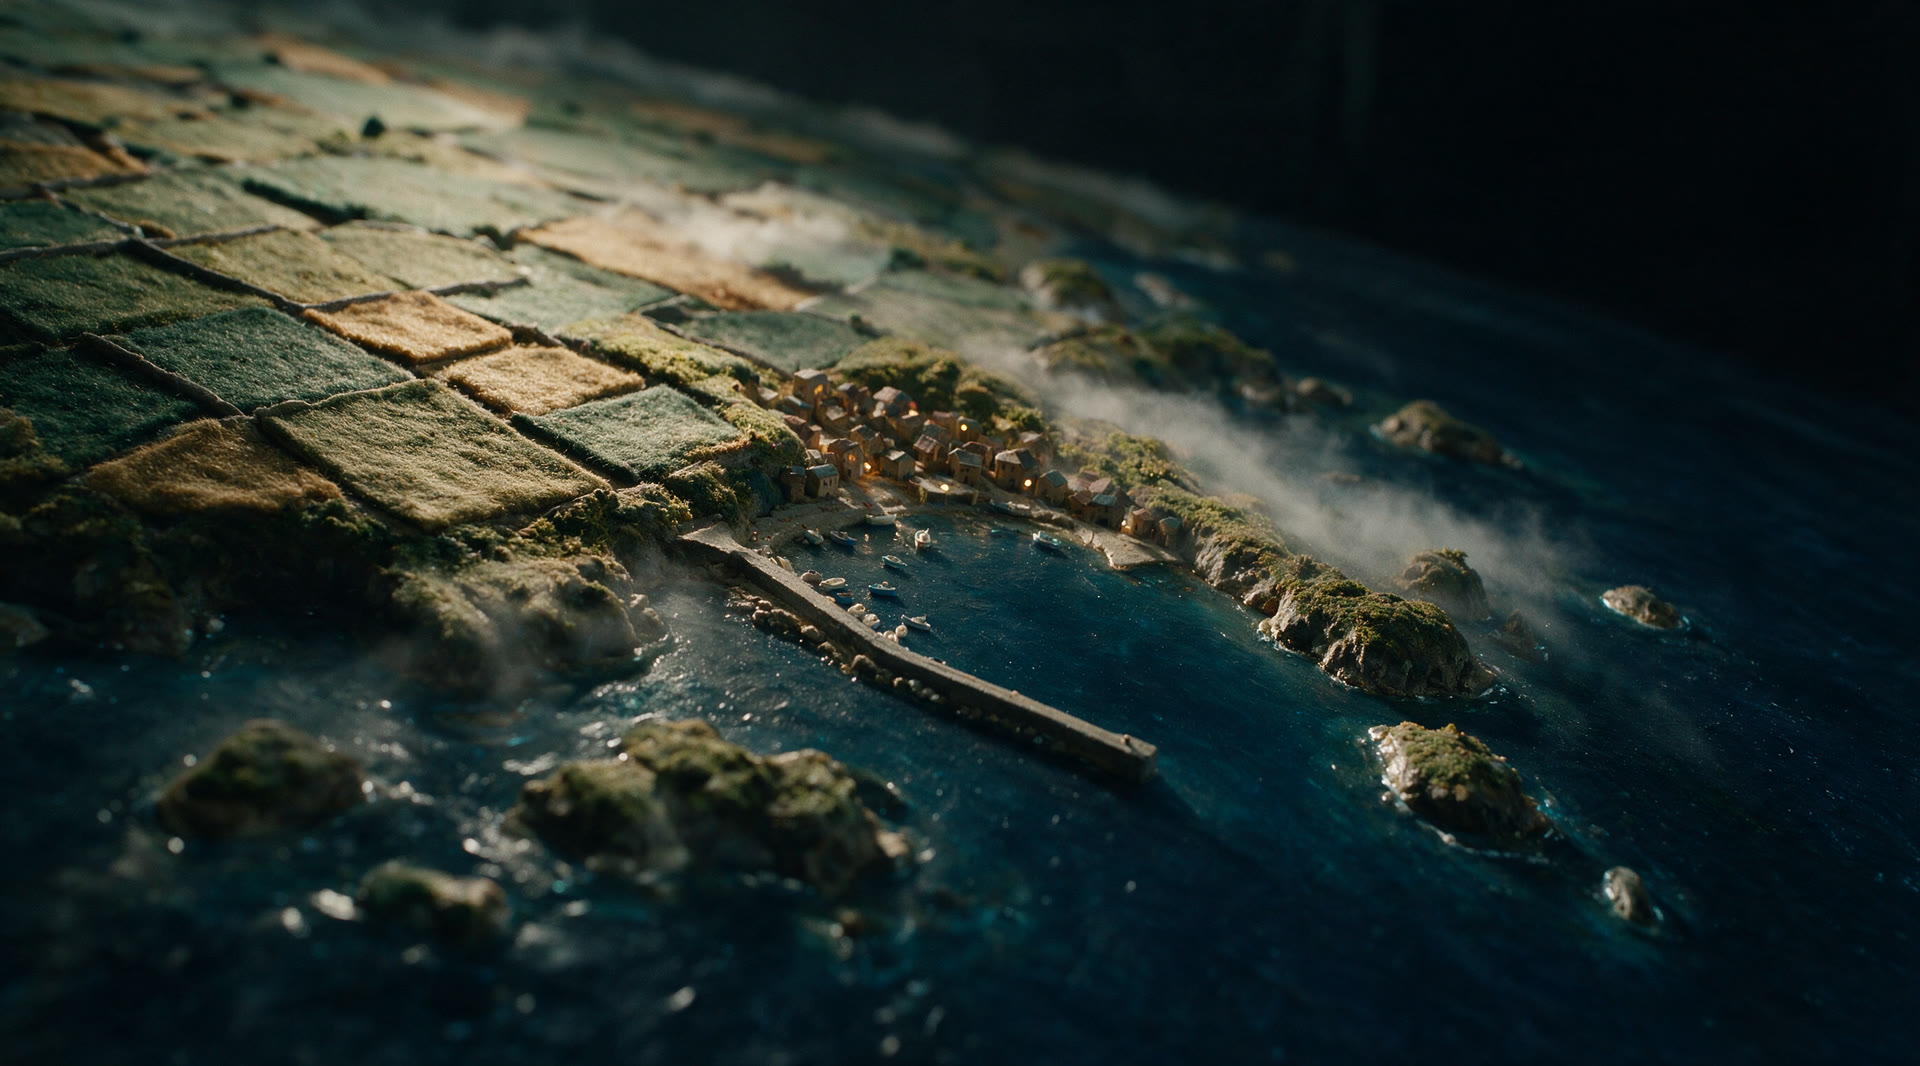
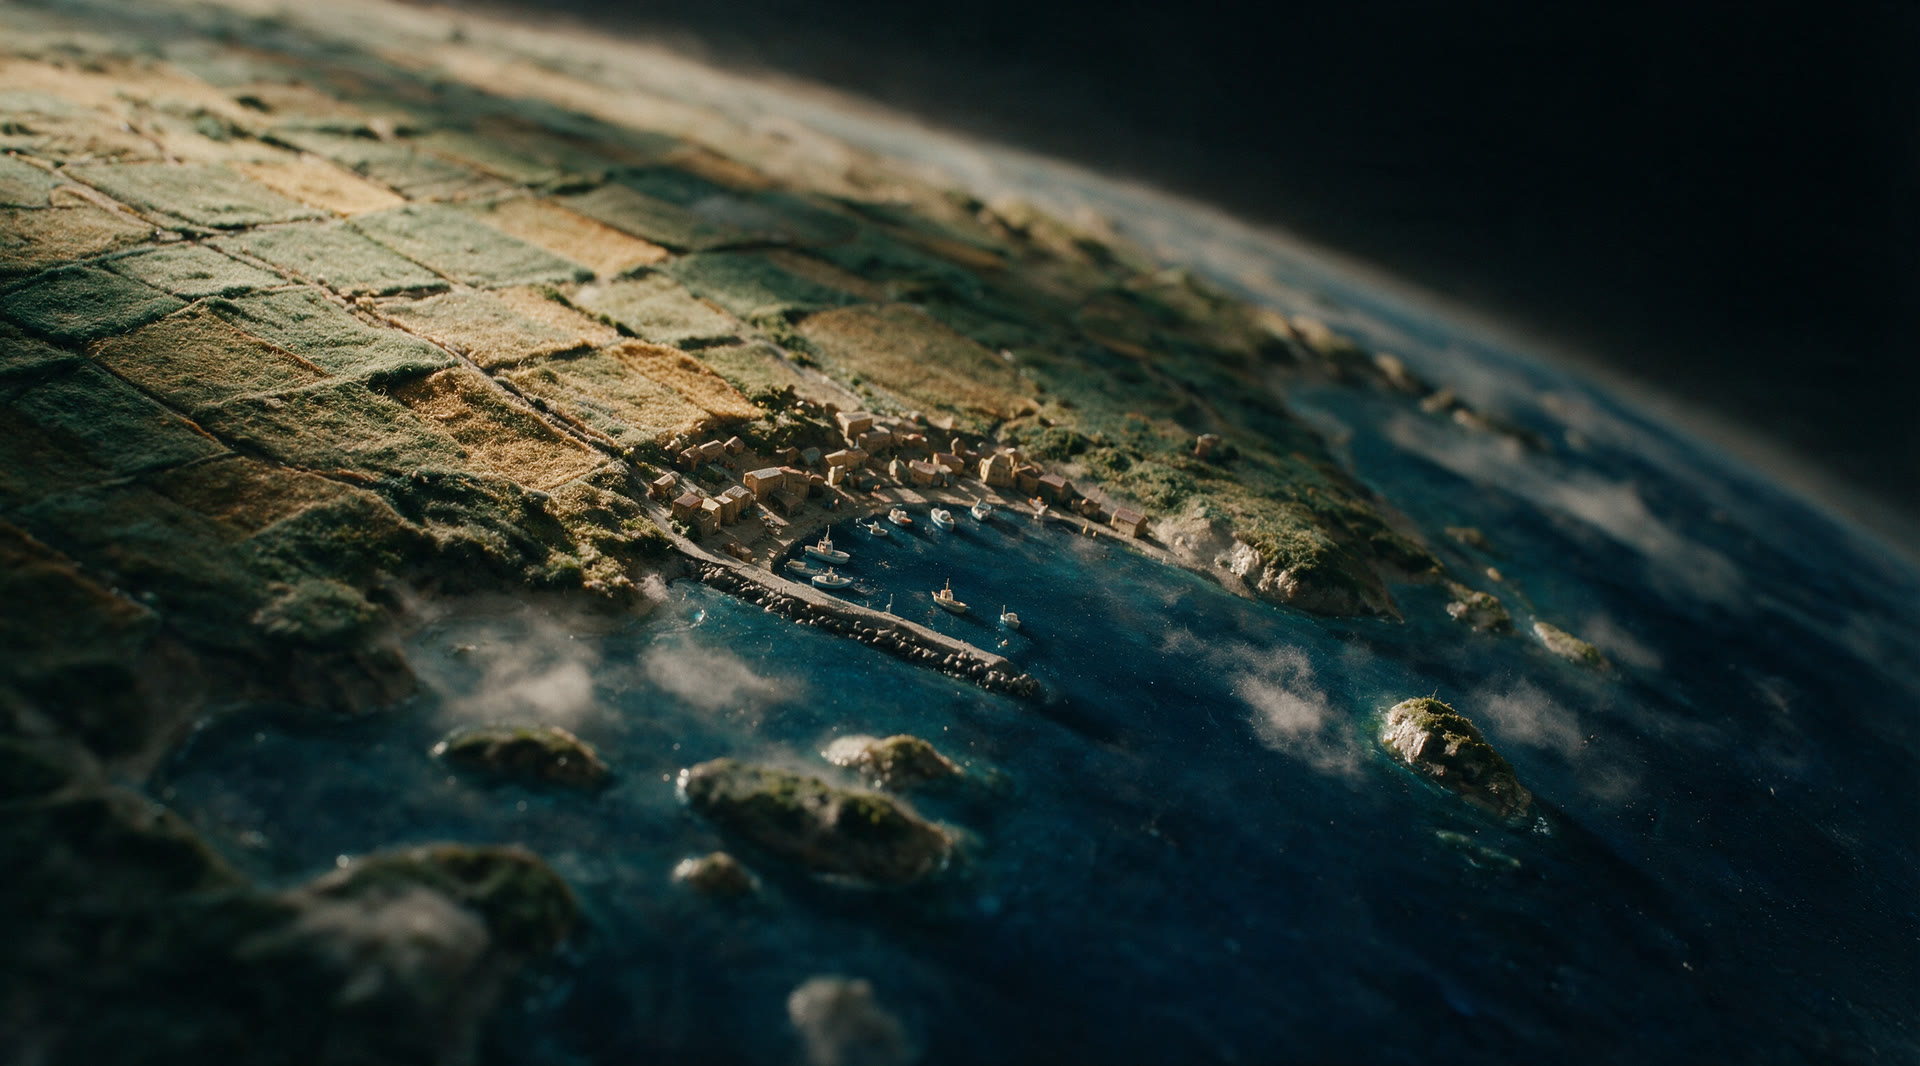
feat(kie): 앵커 rev.3e — A06 구름·좌측 구조물 제거, A07 농지를 해안 높이로 리롤 (2장, 29 크레딧)
클라이언트 피드백(D5 구름·건물, D6 농지 고원) 반영. 스틸당 1회, 재시도 0.
A06/A07 구본은 .v3a 보존, 비교 시트 shots/kie/anchors-v3e-sheet.jpg, 960w 사본 review/.
A05→A06·A06b→A07 모션 프롬프트 개정, 갤러리 캡션 rev.3e, md §10.

Claude-Session: https://claude.ai/code/session_01WM9MJXSpdbCfwY8af3obk9

diff --git a/landxi/proto/film/anchors.html b/landxi/proto/film/anchors.html
@@ -1,4 +1,4 @@
 <!doctype html><html lang="ko"><head><meta charset="utf-8"><title>앵커 스틸 v3</title>
 <link rel="stylesheet" href="../fonts-system.css"><style>body{margin:0;background:#010102;color:#ccc;font:14px/1.5 Pretendard,system-ui,sans-serif}h1{font-family:Paperlogy,Pretendard,sans-serif;font-weight:700;font-size:16px;letter-spacing:.06em;padding:20px 24px;margin:0;border-bottom:1px solid #272727}
 .g{display:grid;grid-template-columns:repeat(auto-fill,minmax(440px,1fr));gap:24px;padding:24px}figure{margin:0}img{width:100%;display:block;border:1px solid #272727}figcaption{padding:8px 2px;font-size:12px;color:#8a8a8a;letter-spacing:.04em}</style></head>
-<body><h1>앵커 스틸 · 13장</h1><div class="g"><figure><img src="../../assets/proto/film/legs/anchors-v3/A01.jpg" loading="lazy"><figcaption>A01 모형 지구본 — 작업대 직치, 링 상단 위성</figcaption></figure><figure><img src="../../assets/proto/film/legs/anchors-v3/A02.jpg" loading="lazy"><figcaption>A02 고궤도·한반도 — 지구본 + 구름만, 항공기 없음 (rev.3)</figcaption></figure><figure><img src="../../assets/proto/film/legs/anchors-v3/A03.jpg" loading="lazy"><figcaption>A03 구름 천장 — 드론 하단 1/3 공중 부양·소, 항공기 우상단 (rev.3c, 1회 재생성)</figcaption></figure><figure><img src="../../assets/proto/film/legs/anchors-v3/A04.jpg" loading="lazy"><figcaption>A04 능선 너머 남원 분지 — 소품 0 (rev.3)</figcaption></figure><figure><img src="../../assets/proto/film/legs/anchors-v3/A05.jpg" loading="lazy"><figcaption>A05 남원 평야·농지이용 — 프롭 0, 회색 판 제거 (rev.3d, 1회 리롤 · 좌측 도로 환각)</figcaption></figure><figure><img src="../../assets/proto/film/legs/anchors-v3/A06.jpg" loading="lazy"><figcaption>A06 금지면 비닐하우스 — 프롭 0</figcaption></figure><figure><img src="../../assets/proto/film/legs/anchors-v3/A06b.jpg" loading="lazy"><figcaption>A06b 남원 상공 고고도 — 곡률·헤이즈, 코발트 바다 우하 시작 (rev.3d 신규 중간 앵커)</figcaption></figure><figure><img src="../../assets/proto/film/legs/anchors-v3/A07.jpg" loading="lazy"><figcaption>A07 지구본 이동→여수</figcaption></figure><figure><img src="../../assets/proto/film/legs/anchors-v3/A08.jpg" loading="lazy"><figcaption>A08 여수 국동항·해양쓰레기</figcaption></figure><figure><img src="../../assets/proto/film/legs/anchors-v3/A09.jpg" loading="lazy"><figcaption>A09 지구본 이동→울주</figcaption></figure><figure><img src="../../assets/proto/film/legs/anchors-v3/A10.jpg" loading="lazy"><figcaption>A10 산림식생·급경사지</figcaption></figure><figure><img src="../../assets/proto/film/legs/anchors-v3/A11.jpg" loading="lazy"><figcaption>A11 불법소각 — 산자락 소면적 공터, 연소 중</figcaption></figure><figure><img src="../../assets/proto/film/legs/anchors-v3/A12.jpg" loading="lazy"><figcaption>A12 국토 변화(데이터 관점) — 황동 격자·측정 셀 점등, 링·위성 복귀</figcaption></figure></div></body></html>
+<body><h1>앵커 스틸 · 13장</h1><div class="g"><figure><img src="../../assets/proto/film/legs/anchors-v3/A01.jpg" loading="lazy"><figcaption>A01 모형 지구본 — 작업대 직치, 링 상단 위성</figcaption></figure><figure><img src="../../assets/proto/film/legs/anchors-v3/A02.jpg" loading="lazy"><figcaption>A02 고궤도·한반도 — 지구본 + 구름만, 항공기 없음 (rev.3)</figcaption></figure><figure><img src="../../assets/proto/film/legs/anchors-v3/A03.jpg" loading="lazy"><figcaption>A03 구름 천장 — 드론 하단 1/3 공중 부양·소, 항공기 우상단 (rev.3c, 1회 재생성)</figcaption></figure><figure><img src="../../assets/proto/film/legs/anchors-v3/A04.jpg" loading="lazy"><figcaption>A04 능선 너머 남원 분지 — 소품 0 (rev.3)</figcaption></figure><figure><img src="../../assets/proto/film/legs/anchors-v3/A05.jpg" loading="lazy"><figcaption>A05 남원 평야·농지이용 — 프롭 0, 회색 판 제거 (rev.3d, 1회 리롤 · 좌측 도로 환각)</figcaption></figure><figure><img src="../../assets/proto/film/legs/anchors-v3/A06.jpg" loading="lazy"><figcaption>A06 금지면 비닐하우스 — 프롭 0, 구름·좌측 구조물 제거 (rev.3e, 1회 리롤)</figcaption></figure><figure><img src="../../assets/proto/film/legs/anchors-v3/A06b.jpg" loading="lazy"><figcaption>A06b 남원 상공 고고도 — 곡률·헤이즈, 코발트 바다 우하 시작 (rev.3d 신규 중간 앵커)</figcaption></figure><figure><img src="../../assets/proto/film/legs/anchors-v3/A07.jpg" loading="lazy"><figcaption>A07 지구본 이동→여수 — 농지가 해안까지 완만히 내려와 마을과 같은 높이, 고원·절벽 없음 (rev.3e, 1회 리롤)</figcaption></figure><figure><img src="../../assets/proto/film/legs/anchors-v3/A08.jpg" loading="lazy"><figcaption>A08 여수 국동항·해양쓰레기</figcaption></figure><figure><img src="../../assets/proto/film/legs/anchors-v3/A09.jpg" loading="lazy"><figcaption>A09 지구본 이동→울주</figcaption></figure><figure><img src="../../assets/proto/film/legs/anchors-v3/A10.jpg" loading="lazy"><figcaption>A10 산림식생·급경사지</figcaption></figure><figure><img src="../../assets/proto/film/legs/anchors-v3/A11.jpg" loading="lazy"><figcaption>A11 불법소각 — 산자락 소면적 공터, 연소 중</figcaption></figure><figure><img src="../../assets/proto/film/legs/anchors-v3/A12.jpg" loading="lazy"><figcaption>A12 국토 변화(데이터 관점) — 황동 격자·측정 셀 점등, 링·위성 복귀</figcaption></figure></div></body></html>

diff --git a/docs/superpowers/proto/2026-08-26-anchors-v3.md b/docs/superpowers/proto/2026-08-26-anchors-v3.md
@@ -893,3 +893,41 @@ const ids = rest.filter((x, k) => !x.startsWith('--') && k !== ei0 + 1);  // ei0
 
 - A05 도로 — 클라이언트 결정(채택 / 1회 재롤).
 - leg 4·5·6a·6b 영상은 별도 승인 후. 러너 `legs-v3.mjs` 는 앵커 배열 순서로 (A06→A06b, A06b→A07) 을 인접 쌍으로 잡도록 확인 필요(현재 13개 앵커).
+
+## 10. 실행 기록 — 2026-08-27 rev.3e A06·A07 리롤 (스틸 2장, 영상 0)
+
+클라이언트(verbatim): **"D5 에 갑자기 왼쪽에 이상한 건물?? 그리고 비닐하우스 옆 구름??? 이건 없어야될 것 같다. D6은 좀 고민이 필요하다. 바닷가 주변 마을은 오케이 이해가 되는데 농지가 더 높게 위에 있다. 조금 현실적이지 않다."** 타임라인 행 05 = A06, 행 06 = A07. 규칙 동일 — 스틸당 정확히 1회, 재시도 0, 상한 30. 영상 0.
+
+### 10-1. 변경 (`tools/kie/anchors-v3.json`)
+
+| 항목 | 내용 |
+|---|---|
+| A06 still | "A soft real cotton-wool cloud shadow lies across the far end of the cluster." 삭제 → "There are no clouds anywhere in the picture and no cotton wool of any kind; there are no buildings, no sheds, no walls; the left of the frame is only the felt quilt and the river." 나머지 verbatim. negative += `cloud, cotton, cotton wool, cumulus, building, shed, barn, house, wall, structure, box`. 구 A06 는 `A06.v3a.*` 보존. |
+| A05→A06 motion | "…so the rows open up and the soft cotton-wool cloud shadow creeps along the far end of the cluster." → "…so the rows open up." |
+| A07 still | "a peninsula of quilted moss and ochre felt runs down from the upper left" → "The land itself is low and realistic: a quilt of moss-green and ochre felt fields slopes very gently down toward the shore from the upper left, meeting the harbour at nearly the same level as the village, with only low rolling moss hills behind; there is no plateau, no cliff, no terrace and no raised step of land anywhere, the fields and the village sit almost level with the sea." 항만·방파제·코발트 바다·헤이즈·키·재질은 verbatim. negative += `cliff, plateau, terrace, escarpment, raised land, mesa, step`. 구 A07 는 `A07.v3a.*` 보존. |
+| A06b→A07 motion | "moss headlands and a harbour with a long grey breakwater arm coming up ahead" → "moss headlands, low fields meeting the shore, a harbour with a long grey breakwater arm coming up ahead". |
+
+A06b 는 손대지 않았다 (구름·구조물 없음, 구 A06 에서 파생됐지만 온실 블록·퀼트는 신 A06 과도 맞는다).
+
+### 10-2. 크레딧 (상한 30, `ANCHORS_V3_CAP=30`, 세션 `rev3e-2026-08-27`, 이전 원장 `anchors-v3-credits.rev3d.json`)
+
+| 앵커 | 잔액 전 → 후 | 과금 | ref | taskId | wall |
+|---|---|---:|---|---|---:|
+| A06 (리롤) | 9975.5 → 9961.0 | 14.5 | A05 + 남원 온실 크롭 2 | c00c1960… | 126 s |
+| A07 (리롤) | 9961.0 → 9946.5 | 14.5 | A06b + 여수 항공 4 | 4d3f79ca… | 95 s |
+| **합계** | 9975.5 → 9946.5 | **29.0** / 30 | | | |
+
+원장 합계 = 실측 차액. 호출 2회, 재시도 0. 직전 시도는 네트워크 오류로 호출 전에 죽었고 과금 0 (시작 잔액 9975.5 로 확인).
+
+### 10-3. 판정 (`shots/kie/anchors-v3e-sheet.jpg` — A06 구|신, A07 구|신; 960w 사본 `landxi/assets/proto/review/A06-old|new.jpg, A07-old|new.jpg`)
+
+| 앵커 | 판정 | 근거 |
+|---|:-:|---|
+| A06 신 | **○** | 구름 0, 솜 0. 좌측은 펠트 퀼트 + 코발트 강뿐 — 건물·창고·벽 없음. 상단은 어둡고 비어 있다. 황동 후프 + 반투명 스킨 + 따뜻한 글로우 유지, 열이 두세 각도로 섞여 단조로운 반복이 아니다. 구 A06 보다 군락이 넓게(약 70%) 펼쳐지고 카메라가 약간 더 높다 — A05→A06 하강 모션과 어긋나지 않는다. 유보: 강 좌측 원경 퀼트에 아주 작은 나무 점 몇 개(프롬프트 허용 범위, 구조물 아님). |
+| A07 신 | **○** | 농지가 해안까지 **완만히 내려와** 마을과 거의 같은 높이 — 고원·절벽·단 없음, 클라이언트 지적 해소. 항만 마을·방파제·계류 보트·코발트 바다·곡률·헤이즈 유지, 우상 상단 어둡고 비어 있다. 유보 2: (1) 방파제가 구 A07 의 길고 곧은 회색 팔보다 **짧고 굽은 사석 방파제**로 나와 A08(길고 곧은 방파제) 과의 연속성이 약해짐 — leg 7 영상에서 모핑 위험, 필요하면 A08 을 신 A07 기준으로 1회 리롤. (2) 바다 위에 솜 헤이즈 조각이 여러 개(프롬프트의 "veils of cotton-wool haze" 범위 안, 구름으로 읽히진 않음). |
+
+### 10-4. 다음
+
+- A07 채택 시 A08 연속성 판단(방파제 형태) — 클라이언트 결정 후 1회 리롤 여부.
+- A05 좌측 도로(§9-3) 는 이번 피드백에 없었으므로 그대로 둠.
+- leg 5·6a·6b·7 영상은 별도 승인 후.
